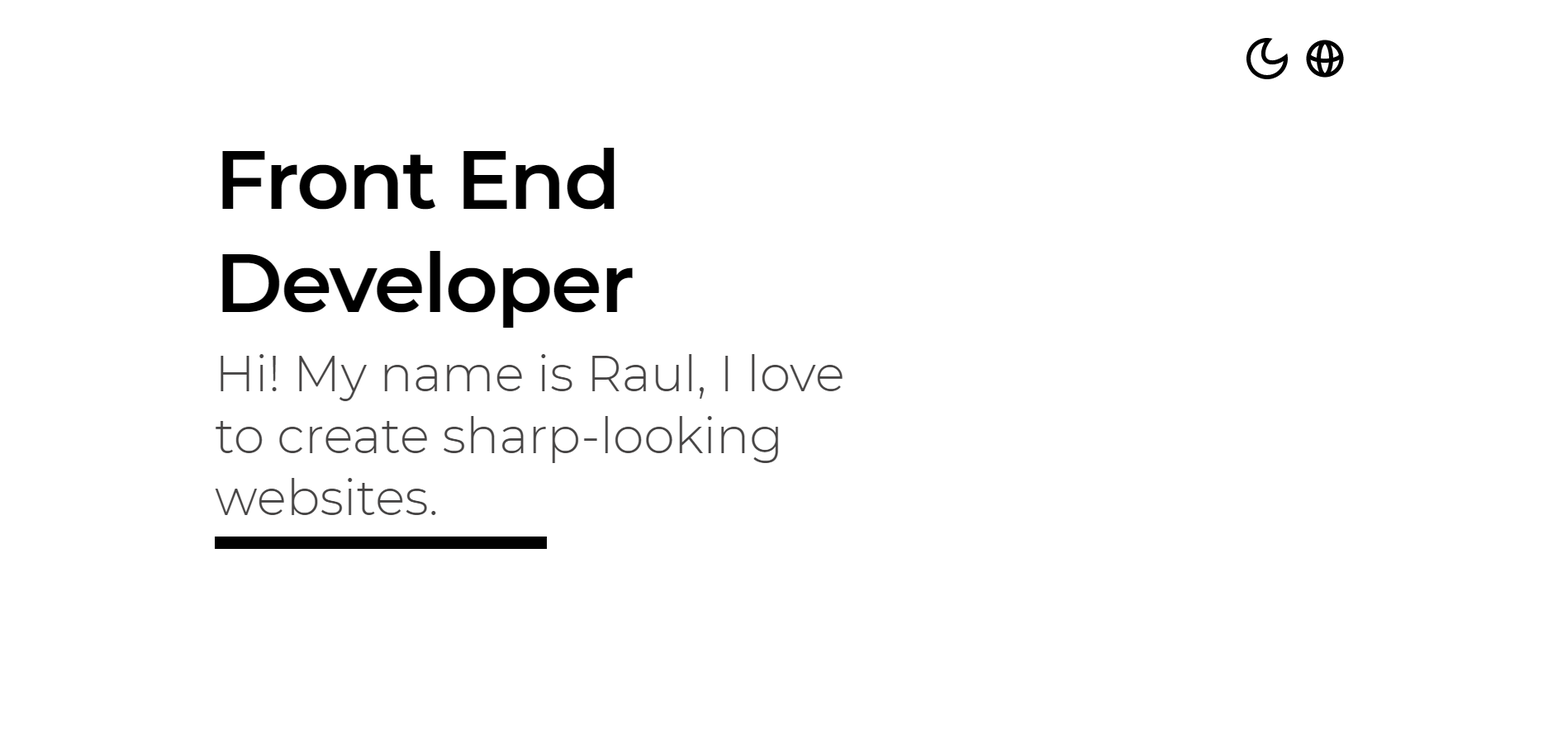
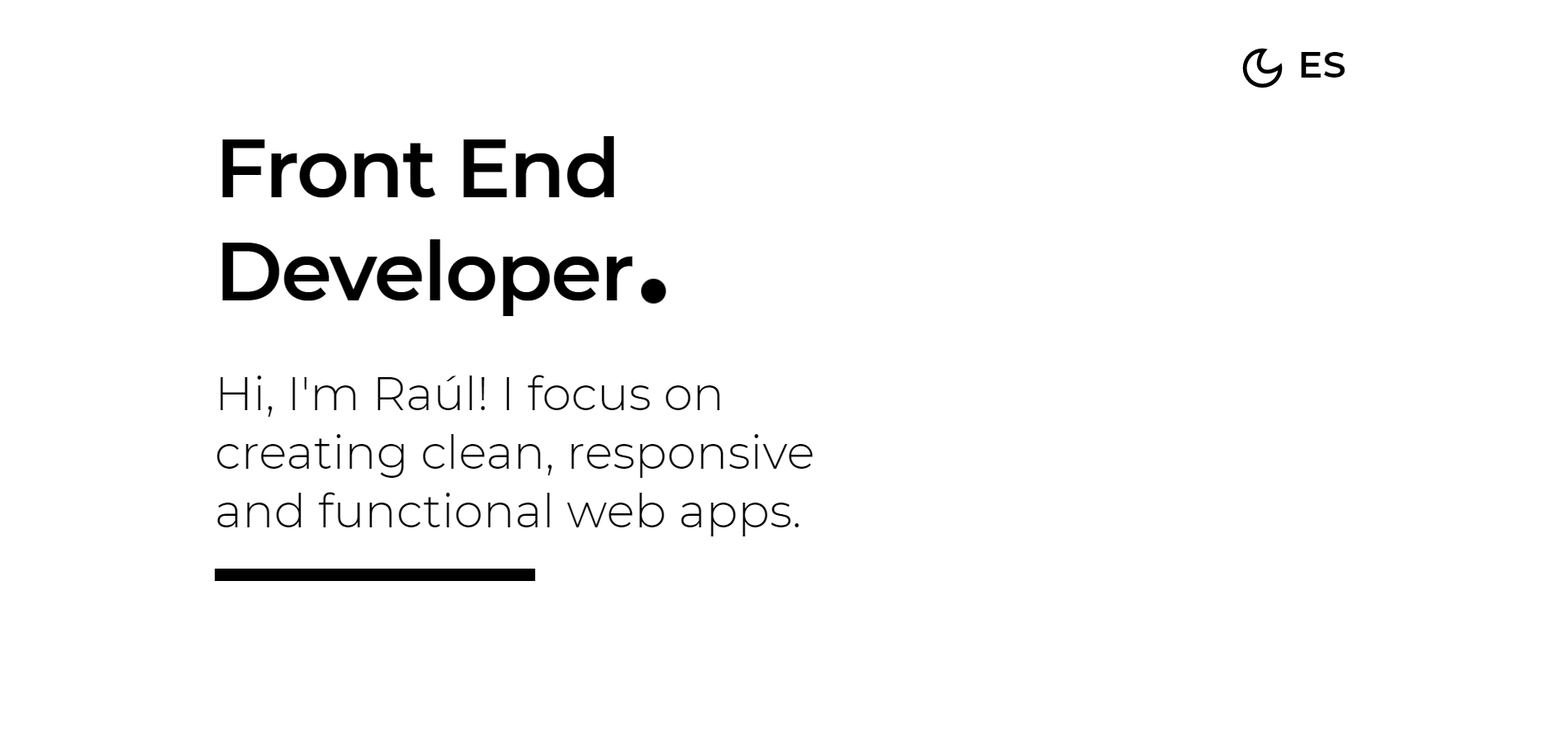
:speech_balloon: chore(content): Update text and assets

diff --git a/build/static/js/main.dd6908c7.chunk.js b/build/static/js/main.dd6908c7.chunk.js
@@ -1,0 +1,2 @@
+(this["webpackJsonpnew-portfolio"]=this["webpackJsonpnew-portfolio"]||[]).push([[0],{16:function(e){e.exports=JSON.parse('[{"title":"Personal website","firstLink":"https://github.com/randrerd/new-portfolio","secondLink":"https://raulandre.com","techStack":{"markupAndComponents":["Javascript","React"],"styling":["Css3","Tailwindcss"],"utils":["Git","MobileFirst"]},"previewUrl":{"mobile":"../assets/new-portfolio.png","desktop":"../assets/new-portfolio-lg.png"}},{"title":"GifOS","firstLink":"https://github.com/randrerd/gifos","secondLink":"https://gifos.vercel.app","techStack":{"markupAndComponents":["Html5","Javascript"],"styling":["Css3","Sass"],"utils":["Git","MobileFirst"]},"previewUrl":{"mobile":"../assets/gifos.png","desktop":"../assets/gifos-lg.png"}},{"title":"eLearning Platform","firstLink":"https://github.com/randrerd/elearningProject","secondLink":"https://randrerd.github.io/elearningProject/","techStack":{"markupAndComponents":["Html5","Javascript"],"styling":["Css3","Sass"],"utils":["Git","MobileFirst"]},"previewUrl":{"mobile":"../assets/elearning.png","desktop":"../assets/elearning-lg.png"}},{"title":"Podcast Channel","firstLink":"https://github.com/randrerd/podcast-channel","secondLink":"https://randrerd.github.io/podcast-channel/","techStack":{"markupAndComponents":["Html5"],"styling":["Css3"],"utils":["Git","MobileFirst"]},"previewUrl":{"mobile":"../assets/podcast.png","desktop":"../assets/podcast-lg.png"}}]')},26:function(e){e.exports=JSON.parse('{"CTASection":{"header":"Front End Developer","content":"Hi, I\'m Ra\xfal! I focus on creating clean, responsive and functional web apps."},"aboutSection":{"header":"Journey","content":[{"paragraph":{"text":"I started studying web development in 2019 on my own with the help of The Odin Project."}},{"paragraph":{"text":"Learning how to set up a development environment using Ubuntu, how to work with Git with GitHub, then HTML and CSS."}},{"paragraph":{"subtitle":"A formal education","text":"I enrolled in Ac\xe1mica\u2019s Full Stack Web Development program in Buenos Aires, Argentina."}},{"paragraph":{"text":"Where I improved my HTML and CSS skills and learned JavaScript, Node.js, Express.js, and working with relational and non-relational databases such as MySQL and MongoDB."}},{"paragraph":{"text":"In September 2020 I completed the Ac\xe1mica program, I added features and made improvements to projects I\u2019d started and also started learning React.js on my own."}},{"paragraph":{"subtitle":"Thereafter","text":"I continue to study and to build projects that allow me to learn new technologies or to sharpen my development skills."}},{"paragraph":{"text":"Currently I find myself looking for my first experience in the industry to work alongside a team and therefore be able to learn even more from them."}}]},"projectsSection":{"header":"Projects","btn1":"Code","btn2":"Live","projects":[{"name":"Personal website","summary":"The website you\'re currently seeing! Hope you like it. In this project I used React, functional components, Hooks, Context API, Framer Motion and Tailwind CSS."},{"name":"GifOS","summary":"It\'s a web app that allows the user to make their own GIFs, search for their favourite ones and get recommendations. I used the GIPHY API and the RecordRTC library."},{"name":"E-Learning Platform","summary":"A markup project for an E-learning platform offering several courses, I used HTML, CSS (with SASS as preprocessor) and Vanilla JavaScript."},{"name":"Podcast Channel","summary":"Markup for a podcasts website, coded using HTML and CSS."}],"techStackHeader":"Tech Stack"},"contactSection":{"content":"Want to get in touch?","btn":"Contact Me!"},"footerSection":{"content":"Made with React.js, TailwindCSS and a lot of \u2764"}}')},27:function(e){e.exports=JSON.parse('{"CTASection":{"header":"Desarrollador Front End","content":"\xa1Hola, soy Ra\xfal! Me enfoco en la creaci\xf3n de web apps responsivas, prolijas y funcionales. "},"aboutSection":{"header":"Trayecto","content":[{"paragraph":{"text":"Empec\xe9 a estudiar desarrollo web en 2019 de manera autodidacta con la ayuda de The Odin Project."}},{"paragraph":{"text":"Aprend\xed a hacer el setup de un entorno de desarrollo usando Ubuntu, a usar Git con GitHub, y luego HTML y CSS."}},{"paragraph":{"subtitle":"Educaci\xf3n acad\xe9mica","text":"Me inscrib\xed en el programa de Desarrollo Web Full Stack en Ac\xe1mica en Buenos Aires, Argentina."}},{"paragraph":{"text":"Mejor\xe9 mis habilidades con HTML y CSS. Adem\xe1s aprend\xed JavaScript, Node.js, Express.js, a trabajar con base de datos relacionales y no-relacionales (MySQL y MongoDB) e igualmente me familiaric\xe9 con las metodolog\xedas \xe1giles."}},{"paragraph":{"text":"En Septiembre de 2020 complet\xe9 el programa de Ac\xe1mica, continu\xe9 agregandole m\xe1s funcionalidades a los proyectos que ya hab\xeda realizado y empec\xe9 a estudiar React.js de manera autodidacta."}},{"paragraph":{"subtitle":"Actualidad","text":"Contin\xfao estudiando y creando proyectos que me permitan aprender nuevas tecnolog\xedas o a afilar mis habilidades como programador."}},{"paragraph":{"text":"De igual forma me encuentro en la b\xfasqueda de mi primera experiencia en la industria de sistemas para as\xed poder trabajar junto a un equipo que me permita crecer y aprender m\xe1s."}}]},"projectsSection":{"header":"Proyectos","btn1":"C\xf3digo","btn2":"Vis\xedtalo","projects":[{"name":"Sitio web personal","summary":"\xa1El sitio web que est\xe1s viendo ahora mismo! Espero sea de tu agrado. En este proyecto utilic\xe9 React, componentes funcionales con Hooks, Context API, Framer Motion y Tailwind CSS."},{"name":"GifOS","summary":"Es una aplicaci\xf3n web que permite al usuario crear sus propios GIFs, buscar sus favoritos y recibir recomendaciones. Utilic\xe9 la API de GIPHY y la librer\xeda RecordRTC de JS."},{"name":"E-Learning Platform","summary":"Proyecto de maquetado de una p\xe1gina web para cursos institucionales, para el maquetado utilic\xe9 HTML, CSS (SASS como preprocesador) y Vanilla JavaScript."},{"name":"Podcast Channel","summary":"Proyecto de maquetado para una p\xe1gina web de podcasts ficticia. Utilic\xe9 HTML y CSS."}],"techStackHeader":"Tech Stack"},"contactSection":{"content":"\xbfQuieres comunicarte?","btn":"\xa1Cont\xe1ctame!"},"footerSection":{"content":"Hecho con React.js, TailwindCSS y bastante \u2764"}}')},36:function(e,t,n){},42:function(e,t,n){"use strict";n.r(t);var a=n(2),r=n(1),i=n.n(r),s=n(22),c=n.n(s),o=n(6),l=n(29),d=n(5),m=(n(36),n(23)),b=Object(r.createContext)({theme:"light"});function u(e){var t=e.children,n=Object(r.useState)("light"),i=Object(o.a)(n,2),s=i[0],c=i[1],l={theme:s,userThemeChange:function(e){var t=e||("light"===s?"dark":"light");c(t),window.localStorage.setItem("pref-theme",t)}};return Object(a.jsx)(b.Provider,{value:l,children:t})}var h=n(3),x={en:n(26),es:n(27)},j=Object(r.createContext)({userLanguage:"en",dictionary:x.en});function g(e){var t=e.children,n=Object(r.useState)("en"),i=Object(o.a)(n,2),s=i[0],c=i[1],l={userLanguage:s,dictionary:x[s],userLanguageChange:function(e){var t=e||("en"===s?"es":"en");c(t),window.localStorage.setItem("pref-lang",t)}};return Object(a.jsx)(j.Provider,{value:l,children:t})}function p(e){var t=e.tid,n=e.section,a=Object(r.useContext)(j).dictionary[n];return Array.isArray(a)?a:t?a[t]||t:a}var f=n(15);function O(){var e=Object(r.useContext)(j),t=e.userLanguageChange,n=e.userLanguage,i=Object(r.useContext)(b).theme;return Object(r.useEffect)((function(){var e=window.localStorage.getItem("pref-lang");e||(e=window.navigator.language.substring(0,2)),t(e)}),[t]),Object(a.jsx)(a.Fragment,{children:Object(a.jsx)("button",{children:Object(a.jsxs)("span",{className:"flex relative",onClick:function(){t()},children:[" ","es"!==n?Object(a.jsx)("p",{className:"light"===i?"text-2xl mb-3 lg:text-4xl lg:mb-0 lg:min-w-4 font-semibold lg:p-1  text-dark-bg  ":"text-2xl  mb-3 lg:text-4xl lg:mb-0  lg:min-w-4 font-semibold  lg:p-1 text-light-bg ",children:"ES"}):Object(a.jsx)("p",{className:"light"===i?"text-2xl mb-3 lg:text-4xl lg:mb-0  lg:min-w-4 font-semibold lg:p-1  text-dark-bg  ":"text-2xl mb-3 lg:text-4xl lg:mb-0  lg:min-w-4 font-semibold  lg:p-1 text-light-bg ",children:"EN"})]})})})}function v(){var e=Object(r.useContext)(b),t=e.theme,n=e.userThemeChange;return Object(r.useEffect)((function(){var e=window.localStorage.getItem("pref-theme");e||(e="light"),n(e)}),[n]),Object(a.jsxs)("div",{className:"flex flex-col lg:flex-row lg:justify-end items-end text-4xl lg:text-5xl",children:[Object(a.jsx)("button",{className:"flex",onClick:function(){n()},children:"dark"===t?Object(a.jsx)(f.c,{className:"my-1 lg:mx-1 text-".concat(t,"-secondary")}):Object(a.jsx)(f.a,{className:"my-1 lg:mx-1 text-".concat(t,"-secondary")})}),Object(a.jsx)(O,{})]})}var y={hidden:{opacity:0},show:{opacity:1,transition:{duration:1,ease:"easeOut",staggerChildren:.5}}},w={hidden:{opacity:0,y:50},show:{opacity:1,y:0,transition:{duration:.6}}},S={leftToRight:{hidden:{opacity:0,x:-100},show:{opacity:1,x:0,transition:{duration:1}}},rightToLeft:{hidden:{opacity:0,x:100},show:{opacity:1,x:0,transition:{duration:1}}}},k={rest:{},hover:{background:"black"}},C={rest:{},hover:{color:"white"}};function N(){var e=Object(r.useContext)(b).theme;return Object(a.jsxs)("header",{className:"mx-8 lg:mx-48 mx lg:mt-8 my-4 lg:mb-0 lg:min-h-screen min-h-12   ",children:[Object(a.jsx)(v,{}),Object(a.jsxs)(h.b.div,{variants:y,animate:"show",initial:"hidden",className:"flex flex-col w-10/12 lg:w-7/12 lg:mt-5 relative",children:[Object(a.jsx)("div",{className:"overflow-hidden mb-6 lg:text-7xl w-min",children:Object(a.jsx)(h.b.h1,{variants:w,className:"light"===e?" text-light-secondary lg:text-7xl block":"  text-dark-secondary lg:text-7xl block  ",children:Object(a.jsx)(p,{section:"CTASection",tid:"header"})})}),Object(a.jsxs)("div",{children:[Object(a.jsx)("div",{className:"overflow-hidden my-2 lg:text-5xl",children:Object(a.jsx)(h.b.h2,{variants:w,className:"light"===e?"text-light-primary my-2 lg:text-5xl block ":" text-dark-primary my-2 lg:text-5xl block",children:Object(a.jsx)(p,{section:"CTASection",tid:"content"})})}),Object(a.jsx)("div",{className:"light"===e?"bg-light-secondary w-32 lg:w-1/2 my-1 h-1 lg:h-3 mt-5":"w-32 lg:w-1/2 my-1 h-1 lg:h-2 bg-dark-secondary mt-5 "})]})]})]})}var L=n(28);function T(){var e=arguments.length>0&&void 0!==arguments[0]?arguments[0]:.08,t=Object(L.a)({threshold:e}),n=Object(o.a)(t,2),a=n[0],r=n[1],i=Object(h.c)();return r?i.start("show"):i.start("hidden"),[a,i]}function M(){var e=Object(r.useContext)(b).theme,t=JSON.parse(JSON.stringify(w));return t.hidden.color="white",Object(a.jsxs)(h.b.div,{variants:y,className:"flex my-5 mb-3 lg:mt-0 overflow-hidden bg-".concat(e,"-bg duration-700"),children:["dark"!==e?Object(a.jsx)(h.b.h3,{variants:w,className:"relative text-white z-20 blend-difference lg:text-5xl",children:Object(a.jsx)(p,{tid:"header",section:"aboutSection"})}):Object(a.jsx)(h.b.h3,{variants:t,className:"relative text-white z-20 blend-difference lg:text-5xl",children:Object(a.jsx)(p,{tid:"header",section:"aboutSection"})}),Object(a.jsx)(h.b.div,{variants:S.leftToRight,className:"relative self-end right-8 lg:right-13 w-16 h-8 lg:h-12 bg-".concat(e,"-secondary ")})]})}var A=n(11);function E(e){var t=e.content,n=e.theme,r=Object(h.g)().scrollYProgress,i=Object(h.f)(r,[0,.2,.35],[0,-30,-50]),s=Object(h.f)(r,[0,.35,.5],[0,-100,-180]),c=t.text,o=t.subtitle;return o?Object(a.jsxs)("div",{children:[Object(a.jsx)(h.b.h4,{style:A.isBrowser?{y:s}:{y:i},className:"text-".concat(n,"-secondary lg:text-2xl mt-8 duration-700"),children:o}),Object(a.jsx)(h.b.p,{style:A.isBrowser?{y:s}:{y:i},className:"text-".concat(n,"-primary my-2 lg:text-lg duration-700"),children:c})]}):Object(a.jsx)(h.b.p,{style:A.isBrowser?{y:s}:{y:i},className:"text-".concat(n,"-primary lg:text-lg my-2 duration-700"),children:c})}function I(){var e=Object(r.useContext)(b).theme,t=T(),n=Object(o.a)(t,2),i=n[0],s=n[1],c=p({section:"aboutSection"});return Object(a.jsx)(h.a,{children:Object(a.jsxs)(h.b.section,{exit:"hidden",initial:"hidden",animate:s,ref:i,variants:y,className:"flex flex-col mx-8 my-4 mt-7 lg:mx-48 lg:my-0 bg-".concat(e,"-bg duration-700 lg:mb-0"),children:[Object(a.jsx)(M,{}),Object(a.jsx)("div",{className:"lg:mx-56 lg:ml-64  max-w-1xl flex flex-col my-4 lg:mb-0",children:c.content.map((function(t,n){var r=t.paragraph;return Object(a.jsx)(E,{theme:e,content:r},n)}))})]})})}var P=n(16);function H(){return Object(a.jsxs)(h.b.div,{variants:y,className:"flex my-5 mb-3 lg:mt-0 overflow-hidden",children:[Object(a.jsx)(h.b.h3,{variants:w,className:"relative text-white z-20 blend-difference lg:text-5xl",children:Object(a.jsx)(p,{section:"projectsSection",tid:"header"})}),Object(a.jsx)(h.b.div,{variants:S.rightToLeft,className:"absolute self-center mr-auto w-16 h-8 lg:h-12 bg-white"})]})}var J=n(10);function F(e){var t=Object(r.useState)(!1),n=Object(o.a)(t,2),i=n[0],s=n[1],c=Object(r.useState)(""),l=Object(o.a)(c,2),d=l[0],m=l[1],b=e.content,u={markupAndComponents:[{name:"Html5",display:"HTML5",icon:J.f},{name:"Javascript",display:"JavaScript ES6",icon:J.g},{name:"React",display:"React.JS",icon:J.i}],styling:[{name:"Css3",display:"CSS3",icon:J.b},{name:"Sass",display:"Sass",icon:J.j},{name:"Tailwindcss",display:"Tailwind CSS",icon:J.k}],utils:[{name:"Git",display:"Git",icon:J.c},{name:"MobileFirst",display:"Responsive Design",icon:f.b}]};function h(e,t){var n=[];return e.forEach((function(e){var a=t.find((function(t){return e===t.name}));n.push(a)})),n}function x(e){s(!0),m(e)}return Object(a.jsxs)("div",{className:"flex flex-col w-32 min-w-8 min-h-12",children:[Object(a.jsx)("h4",{className:"text-white my-3 text-xl font-medium",children:Object(a.jsx)(p,{section:"projectsSection",tid:"techStackHeader"})}),Object(a.jsxs)("div",{className:"text-3xl",children:[Object(a.jsx)("div",{className:"flex",children:h(b.markupAndComponents,u.markupAndComponents).map((function(e,t){return Object(a.jsx)(e.icon,{onMouseEnter:function(){return x(e.display)},onMouseLeave:function(){return s(!1)},onClick:function(){return x(e.display)},className:"m-1 text-white"},t)}))}),Object(a.jsx)("div",{className:"flex",children:h(b.styling,u.styling).map((function(e,t){return Object(a.jsx)(e.icon,{onMouseEnter:function(){return x(e.display)},onMouseLeave:function(){return s(!1)},onClick:function(){return x(e.display)},className:"m-1 text-white"},t)}))}),Object(a.jsx)("div",{className:"flex",children:h(b.utils,u.utils).map((function(e,t){return Object(a.jsx)(e.icon,{onMouseEnter:function(){return x(e.display)},onMouseLeave:function(){return s(!1)},onClick:function(){return x(e.display)},className:"m-1 text-white"},t)}))})]}),i&&Object(a.jsx)("p",{className:"text-white font-light text-xs m-1",children:d})]})}function G(e){var t=e.previewUrl;return Object(a.jsxs)("div",{className:"flex flex-col mt-4 mb-2",children:[Object(a.jsx)("img",{className:"self-center m-auto h-56 lg:hidden",alt:"Screenshot of current project",src:t.mobile}),Object(a.jsx)("img",{className:"self-start m-0 hidden lg:block",alt:"Screenshot of current project",src:"".concat(t.desktop)})]})}function R(e){var t=e.details,n=t.title,r=t.summary,i=t.firstLink,s=t.secondLink,c=t.techStack,o=t.previewUrl,l=e.handleClick,d=e.i,m=Object(h.g)().scrollYProgress,b=Object(h.f)(m,[0,.47,.57],[0,-50,-90]),u=Object(h.f)(m,[0,.47,.62,.85],[0,-50,-125,-250]);return Object(a.jsxs)(h.b.div,{style:A.isBrowser?{y:u}:{y:b},className:d===P.length-1?"flex flex-col mt-12 lg:flex-row duration-700":"flex flex-col my-12 lg:flex-row lg:mb-32 duration-700",children:[Object(a.jsxs)("div",{className:"flex flex-col mb-4 lg:ml-64 lg:w-6/12 lg:mr-12 lg:mb-0",children:[A.isMobile&&Object(a.jsx)("h4",{className:"text-white ml-2 font-normal",children:n}),Object(a.jsx)("button",{className:"my-2",onClick:function(){return l(s)},children:Object(a.jsx)(G,{previewUrl:o})}),Object(a.jsxs)("div",{className:"flex justify-center w-full max-w-sm self-center lg:max-w-none",children:[Object(a.jsx)("button",{onClick:function(){return l(i)},className:"w-auto flex-grow h-8 bg-white mx-2 lg:w-24 lg:h-8 lg:flex-grow-0 max",children:Object(a.jsx)("span",{children:Object(a.jsx)(p,{section:"projectsSection",tid:"btn1"})})}),Object(a.jsx)("button",{onClick:function(){return l(s)},className:"w-auto flex-grow h-8 bg-white mx-2 lg:w-24 lg:h-8 lg:flex-grow-0",children:Object(a.jsx)("span",{children:Object(a.jsx)(p,{section:"projectsSection",tid:"btn2"})})})]}),Object(a.jsx)("div",{className:"relative self-center w-48 h-2 mt-2 bg-white lg:ml-2 lg:w-40"})]}),Object(a.jsxs)("div",{className:"flex flex-col items-start flex-shrink-0 lg:w-1/4",children:[!A.isMobile&&Object(a.jsx)("h4",{className:"text-white mb-3 font-normal lg:self-start lg:mt-3 lg:mb-0",children:n}),Object(a.jsx)("p",{className:"text-white text-lg font-light",children:r}),Object(a.jsx)(F,{content:c})]})]})}function z(e){var t=p({section:"projectsSection"}),n=T(),r=Object(o.a)(n,2),i=r[0],s=r[1],c=t.projects,l=P.map((function(e,t){return e.summary=c[t].summary,e.title=c[t].name,e}));return Object(a.jsxs)(h.b.section,{initial:"hidden",animate:s,ref:i,variants:y,className:"bg-black px-8 py-4 pb-24 mt-7 flex flex-col lg:px-48 lg:pt-16 lg:pb-0",children:[Object(a.jsx)(H,{}),l.map((function(t,n){return Object(a.jsx)(R,{details:t,i:n,handleClick:e.handleClick},n)}))]})}function q(e){var t=T(.85),n=Object(o.a)(t,2),i=n[0],s=n[1],c=JSON.parse(JSON.stringify(k)),l=JSON.parse(JSON.stringify(C));c.hover.background="white",l.hover.color="black";var d=Object(r.useContext)(b).theme,m=e.handleClick;return Object(a.jsxs)(h.b.section,{ref:i,initial:"hidden",animate:s,variants:y,className:"flex flex-col mb-20 items-center  ",children:[Object(a.jsx)("p",{className:"text-".concat(d,"-secondary text-3xl align-text-center"),children:Object(a.jsx)(p,{section:"contactSection",tid:"content"})}),"dark"!==d?Object(a.jsx)(h.b.button,{variants:k,initial:"rest",whileHover:"hover",whileTap:"hover",animate:"rest",onClick:function(){return m("email")},className:"light"===d?"bg-light-bg border border-light-secondary border-solid my-8 mx-6 p-3 mt-3 duration-300":"bg-dark-bg border border-dark-secondary border-solid my-8 mx-6 p-3 mt-3 duration-300",children:Object(a.jsx)(h.b.span,{variants:C,className:"light"===d?"text-light-secondary text-2xl font-light":"text-dark-secondary text-2xl font-light",children:Object(a.jsx)(p,{section:"contactSection",tid:"btn"})})}):Object(a.jsx)(h.b.button,{variants:c,initial:"rest",whileHover:"hover",whileTap:"hover",animate:"rest",onClick:function(){return m("email")},className:"light"===d?"bg-light-bg border border-light-secondary border-solid my-8 mx-6 p-3 mt-3 duration-300":"bg-dark-bg border border-dark-secondary border-solid my-8 mx-6 p-3 mt-3 duration-300",children:Object(a.jsx)(h.b.span,{variants:l,className:"light"===d?"text-light-secondary text-2xl font-light":"text-dark-secondary text-2xl font-light",children:Object(a.jsx)(p,{section:"contactSection",tid:"btn"})})})]})}function B(){var e=Object(r.useContext)(b).theme,t=Object(h.g)().scrollYProgress,n=T(.65),i=Object(o.a)(n,2),s=i[0],c=i[1],l=Object(h.f)(t,[0,.9,.95,1],[0,-75,-25,0]),d=Object(h.f)(t,[0,.85,.97],[0,-95,0]);return Object(a.jsxs)(a.Fragment,{children:["dark"===e&&Object(a.jsx)(a.Fragment,{children:Object(a.jsx)("div",{className:" w-48 h-1 relative z-10 m-auto bg-black"})}),Object(a.jsx)("div",{className:" w-48 h-1 relative z-10 m-auto top-2 bg-".concat(e,"-bg")}),Object(a.jsx)("div",{className:" w-48 h-1 relative z-10 m-auto top-4 bg-".concat(e,"-bg")}),Object(a.jsx)(h.b.div,{initial:"hidden",animate:c,ref:s,style:A.isBrowser?{y:d}:{y:l},variants:y,className:"w-0 h-0 triangle m-auto relative bottom-10 blend-difference duration-700"})]})}function U(e){var t=e.handleClick,n=[{name:"Gmail",icon:J.e,url:"email"},{name:"Github",icon:J.d,url:"https://github.com/randrerd"},{name:"LinkedIn",icon:J.h,url:"https://linkedin.com/in/randrerd"},{name:"CodePen",icon:J.a,url:"http://codepen.io/randrerd/"}];return Object(a.jsxs)("section",{className:"flex flex-col bg-black items-center",children:[Object(a.jsx)("div",{className:"p-5 text-white flex flex-row text-3xl justify-between w-64 my-10 mb-4",children:n.map((function(e,n){return Object(a.jsx)("button",{onClick:function(){return t(e.url)},children:Object(a.jsx)(e.icon,{})},n)}))}),Object(a.jsxs)("div",{className:"flex flex-col text-xs font-light mb-5 self-center items-center ",children:[Object(a.jsx)("p",{className:"text-whiteish",children:Object(a.jsx)(p,{section:"footerSection",tid:"content"})}),Object(a.jsx)("p",{className:"text-whiteish",children:"@randrerd"})]})]})}function D(){var e=Object(r.useContext)(b).theme;function t(e){if("email"===e)window.location="mailto:hola@raulandre.com";else{var t=window.open(e,"_blank","noopener,noreferrer");t&&(t.opener=null)}}return Object(a.jsxs)("div",{className:"light"===e?"bg-light-bg duration-700":"bg-dark-bg duration-700",children:[Object(a.jsx)(m.a,{bodyAttributes:{class:"light"===e?"bg-light-bg duration-700 z-30":"bg-dark-bg duration-700 z-30"}}),Object(a.jsx)(N,{}),Object(a.jsx)(I,{}),Object(a.jsx)(z,{handleClick:t}),Object(a.jsx)(B,{}),Object(a.jsx)(q,{handleClick:t}),Object(a.jsx)(U,{handleClick:t})]})}function Y(){var e=Object(h.d)(-100),t=Object(h.d)(-100),n={damping:25,stiffness:700},i=Object(h.e)(e,n),s=Object(h.e)(t,n);return Object(r.useEffect)((function(){var n=function(n){e.set(n.clientX),t.set(n.clientY)};return window.addEventListener("mousemove",n),function(){window.removeEventListener("mousemove",n)}})),Object(a.jsx)(h.b.div,{style:{translateX:i,translateY:s},className:"cursor z-50"})}function W(){return Object(a.jsx)("div",{className:"bg-black flex flex-col items-center justify-center h-screen",children:Object(a.jsx)("div",{className:"lg:w-3/12 md:w-2/4 bg-black z-10 absolute m-8 flex flex-col items-center justify-center border-white border-solid border-8 rounded-sm py-8 px-8",children:Object(a.jsx)("h2",{className:"text-4xl text-white font-medium text-center z-20",children:"We're working for you, pretty soon everything will be finished."})})})}var Q=function(){var e=Object(r.useState)(0),t=Object(o.a)(e,2),n=t[0],i=t[1];function s(e){var t=e.target===document.querySelector(".text-4xl.text-white.font-medium.text-center.z-20"),n=e.y>419&&e.y<440;t&&n&&i((function(e){return e+1}))}return Object(r.useEffect)((function(){return window.addEventListener("click",(function(e){return s(e)})),function(){window.removeEventListener("click",(function(e){return s(e)}))}}),[]),Object(r.useEffect)((function(){7===n&&(window.location.href="/home")}),[n]),Object(a.jsxs)(a.Fragment,{children:[!A.isMobile&&Object(a.jsx)(Y,{}),Object(a.jsx)(g,{children:Object(a.jsx)(u,{children:Object(a.jsx)(l.a,{children:Object(a.jsxs)(d.c,{children:[Object(a.jsx)(d.a,{path:"/",exact:!0,component:W}),Object(a.jsx)(d.a,{path:"/home",exact:!0,component:D})]})})})})]})},V=function(e){e&&e instanceof Function&&n.e(3).then(n.bind(null,44)).then((function(t){var n=t.getCLS,a=t.getFID,r=t.getFCP,i=t.getLCP,s=t.getTTFB;n(e),a(e),r(e),i(e),s(e)}))};c.a.render(Object(a.jsx)(i.a.StrictMode,{children:Object(a.jsx)(Q,{})}),document.getElementById("root")),V()}},[[42,1,2]]]);
+//# sourceMappingURL=main.dd6908c7.chunk.js.map

diff --git a/build/index.html b/build/index.html
@@ -1,1 +1,1 @@
-<!doctype html><html lang="en"><head><meta charset="utf-8"/><meta name="viewport" content="width=device-width,initial-scale=1"/><meta name="theme-color" content="#000000"/><meta name="description" content="Raul Andre Roman's personal website"/><title>Raúl | Front End Developer</title><link href="/static/css/main.edcc5941.chunk.css" rel="stylesheet"></head><body><noscript>You need to enable JavaScript to run this app.</noscript><div id="root"></div><script>!function(e){function r(r){for(var n,i,a=r[0],c=r[1],l=r[2],p=0,s=[];p<a.length;p++)i=a[p],Object.prototype.hasOwnProperty.call(o,i)&&o[i]&&s.push(o[i][0]),o[i]=0;for(n in c)Object.prototype.hasOwnProperty.call(c,n)&&(e[n]=c[n]);for(f&&f(r);s.length;)s.shift()();return u.push.apply(u,l||[]),t()}function t(){for(var e,r=0;r<u.length;r++){for(var t=u[r],n=!0,a=1;a<t.length;a++){var c=t[a];0!==o[c]&&(n=!1)}n&&(u.splice(r--,1),e=i(i.s=t[0]))}return e}var n={},o={1:0},u=[];function i(r){if(n[r])return n[r].exports;var t=n[r]={i:r,l:!1,exports:{}};return e[r].call(t.exports,t,t.exports,i),t.l=!0,t.exports}i.e=function(e){var r=[],t=o[e];if(0!==t)if(t)r.push(t[2]);else{var n=new Promise((function(r,n){t=o[e]=[r,n]}));r.push(t[2]=n);var u,a=document.createElement("script");a.charset="utf-8",a.timeout=120,i.nc&&a.setAttribute("nonce",i.nc),a.src=function(e){return i.p+"static/js/"+({}[e]||e)+"."+{3:"4373569e"}[e]+".chunk.js"}(e);var c=new Error;u=function(r){a.onerror=a.onload=null,clearTimeout(l);var t=o[e];if(0!==t){if(t){var n=r&&("load"===r.type?"missing":r.type),u=r&&r.target&&r.target.src;c.message="Loading chunk "+e+" failed.\n("+n+": "+u+")",c.name="ChunkLoadError",c.type=n,c.request=u,t[1](c)}o[e]=void 0}};var l=setTimeout((function(){u({type:"timeout",target:a})}),12e4);a.onerror=a.onload=u,document.head.appendChild(a)}return Promise.all(r)},i.m=e,i.c=n,i.d=function(e,r,t){i.o(e,r)||Object.defineProperty(e,r,{enumerable:!0,get:t})},i.r=function(e){"undefined"!=typeof Symbol&&Symbol.toStringTag&&Object.defineProperty(e,Symbol.toStringTag,{value:"Module"}),Object.defineProperty(e,"__esModule",{value:!0})},i.t=function(e,r){if(1&r&&(e=i(e)),8&r)return e;if(4&r&&"object"==typeof e&&e&&e.__esModule)return e;var t=Object.create(null);if(i.r(t),Object.defineProperty(t,"default",{enumerable:!0,value:e}),2&r&&"string"!=typeof e)for(var n in e)i.d(t,n,function(r){return e[r]}.bind(null,n));return t},i.n=function(e){var r=e&&e.__esModule?function(){return e.default}:function(){return e};return i.d(r,"a",r),r},i.o=function(e,r){return Object.prototype.hasOwnProperty.call(e,r)},i.p="/",i.oe=function(e){throw console.error(e),e};var a=this["webpackJsonpnew-portfolio"]=this["webpackJsonpnew-portfolio"]||[],c=a.push.bind(a);a.push=r,a=a.slice();for(var l=0;l<a.length;l++)r(a[l]);var f=c;t()}([])</script><script src="/static/js/2.232ce48e.chunk.js"></script><script src="/static/js/main.77c3f5b6.chunk.js"></script></body></html>
+<!doctype html><html lang="en"><head><meta charset="utf-8"/><meta name="viewport" content="width=device-width,initial-scale=1"/><meta name="theme-color" content="#000000"/><meta name="description" content="Raul Andre Roman's personal website"/><title>Raúl | Front End Developer</title><link href="/static/css/main.edcc5941.chunk.css" rel="stylesheet"></head><body><noscript>You need to enable JavaScript to run this app.</noscript><div id="root"></div><script>!function(e){function r(r){for(var n,i,a=r[0],c=r[1],l=r[2],p=0,s=[];p<a.length;p++)i=a[p],Object.prototype.hasOwnProperty.call(o,i)&&o[i]&&s.push(o[i][0]),o[i]=0;for(n in c)Object.prototype.hasOwnProperty.call(c,n)&&(e[n]=c[n]);for(f&&f(r);s.length;)s.shift()();return u.push.apply(u,l||[]),t()}function t(){for(var e,r=0;r<u.length;r++){for(var t=u[r],n=!0,a=1;a<t.length;a++){var c=t[a];0!==o[c]&&(n=!1)}n&&(u.splice(r--,1),e=i(i.s=t[0]))}return e}var n={},o={1:0},u=[];function i(r){if(n[r])return n[r].exports;var t=n[r]={i:r,l:!1,exports:{}};return e[r].call(t.exports,t,t.exports,i),t.l=!0,t.exports}i.e=function(e){var r=[],t=o[e];if(0!==t)if(t)r.push(t[2]);else{var n=new Promise((function(r,n){t=o[e]=[r,n]}));r.push(t[2]=n);var u,a=document.createElement("script");a.charset="utf-8",a.timeout=120,i.nc&&a.setAttribute("nonce",i.nc),a.src=function(e){return i.p+"static/js/"+({}[e]||e)+"."+{3:"4373569e"}[e]+".chunk.js"}(e);var c=new Error;u=function(r){a.onerror=a.onload=null,clearTimeout(l);var t=o[e];if(0!==t){if(t){var n=r&&("load"===r.type?"missing":r.type),u=r&&r.target&&r.target.src;c.message="Loading chunk "+e+" failed.\n("+n+": "+u+")",c.name="ChunkLoadError",c.type=n,c.request=u,t[1](c)}o[e]=void 0}};var l=setTimeout((function(){u({type:"timeout",target:a})}),12e4);a.onerror=a.onload=u,document.head.appendChild(a)}return Promise.all(r)},i.m=e,i.c=n,i.d=function(e,r,t){i.o(e,r)||Object.defineProperty(e,r,{enumerable:!0,get:t})},i.r=function(e){"undefined"!=typeof Symbol&&Symbol.toStringTag&&Object.defineProperty(e,Symbol.toStringTag,{value:"Module"}),Object.defineProperty(e,"__esModule",{value:!0})},i.t=function(e,r){if(1&r&&(e=i(e)),8&r)return e;if(4&r&&"object"==typeof e&&e&&e.__esModule)return e;var t=Object.create(null);if(i.r(t),Object.defineProperty(t,"default",{enumerable:!0,value:e}),2&r&&"string"!=typeof e)for(var n in e)i.d(t,n,function(r){return e[r]}.bind(null,n));return t},i.n=function(e){var r=e&&e.__esModule?function(){return e.default}:function(){return e};return i.d(r,"a",r),r},i.o=function(e,r){return Object.prototype.hasOwnProperty.call(e,r)},i.p="/",i.oe=function(e){throw console.error(e),e};var a=this["webpackJsonpnew-portfolio"]=this["webpackJsonpnew-portfolio"]||[],c=a.push.bind(a);a.push=r,a=a.slice();for(var l=0;l<a.length;l++)r(a[l]);var f=c;t()}([])</script><script src="/static/js/2.232ce48e.chunk.js"></script><script src="/static/js/main.dd6908c7.chunk.js"></script></body></html>
